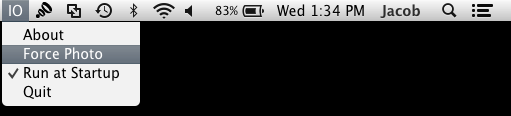
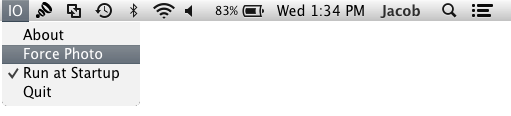
cleaned up images and removed much of footer

diff --git a/index.html b/index.html
@@ -164,7 +164,7 @@
 
       <div class="row featurette">
         <div class="col-md-10 centered">
-          <img class="featurette-image-left img-responsive" src="assets/img/tweet.png" alt="Generic placeholder image">
+          <img class="featurette-image-left img-responsive" src="assets/img/combined.png" alt="Generic placeholder image">
           <h2 class="featurette-heading-right">Click the notification to see the photo and, if you like, tweet it.</h2>
         </div>
       </div>
@@ -190,8 +190,9 @@
       <!-- /END THE FEATURETTES -->
 
       <div class="row">
+
         <div class="col-md-4 col-md-offset-1">
-            <h1>Contact</h1>
+          <h1>Contact</h1>
           <form role="form">
             <div class="form-group">
               <label for="exampleInputEmail1">Email address</label>
@@ -204,6 +205,7 @@
             <button type="submit" class="btn btn-default">Submit</button>
           </form>
         </div>
+
         <div class="col-md-4 col-md-offset-1">
           <div class="row">
             <div class="col-md-12 centered">
@@ -214,13 +216,13 @@
             </div>
           </div>
         </div>
+
       </div>
 
 
       <!-- FOOTER -->
       <footer>
         <p class="pull-right"><a href="#">Back to top</a></p>
-        <p>&copy; 2013 Company, Inc. &middot; <a href="#">Privacy</a> &middot; <a href="#">Terms</a></p>
       </footer>
 
     </div><!-- /.container -->
